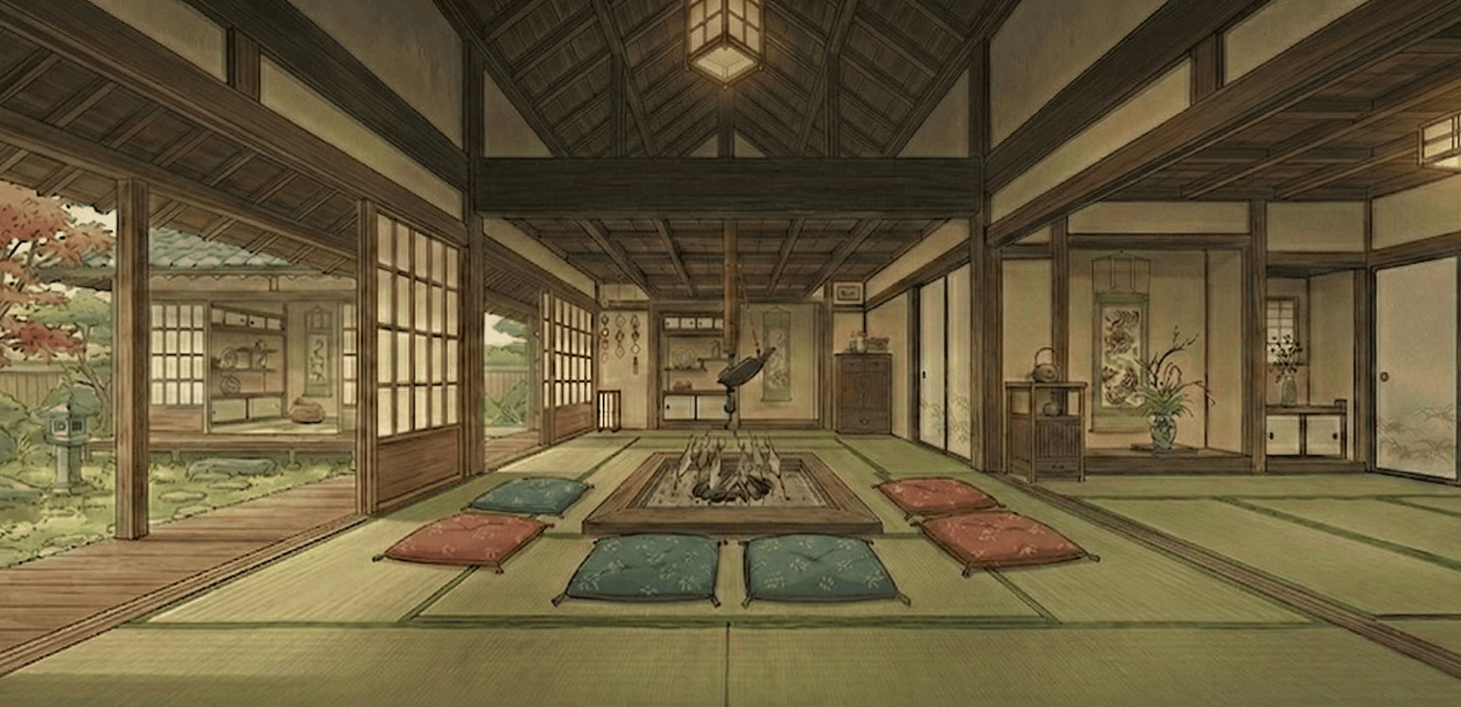
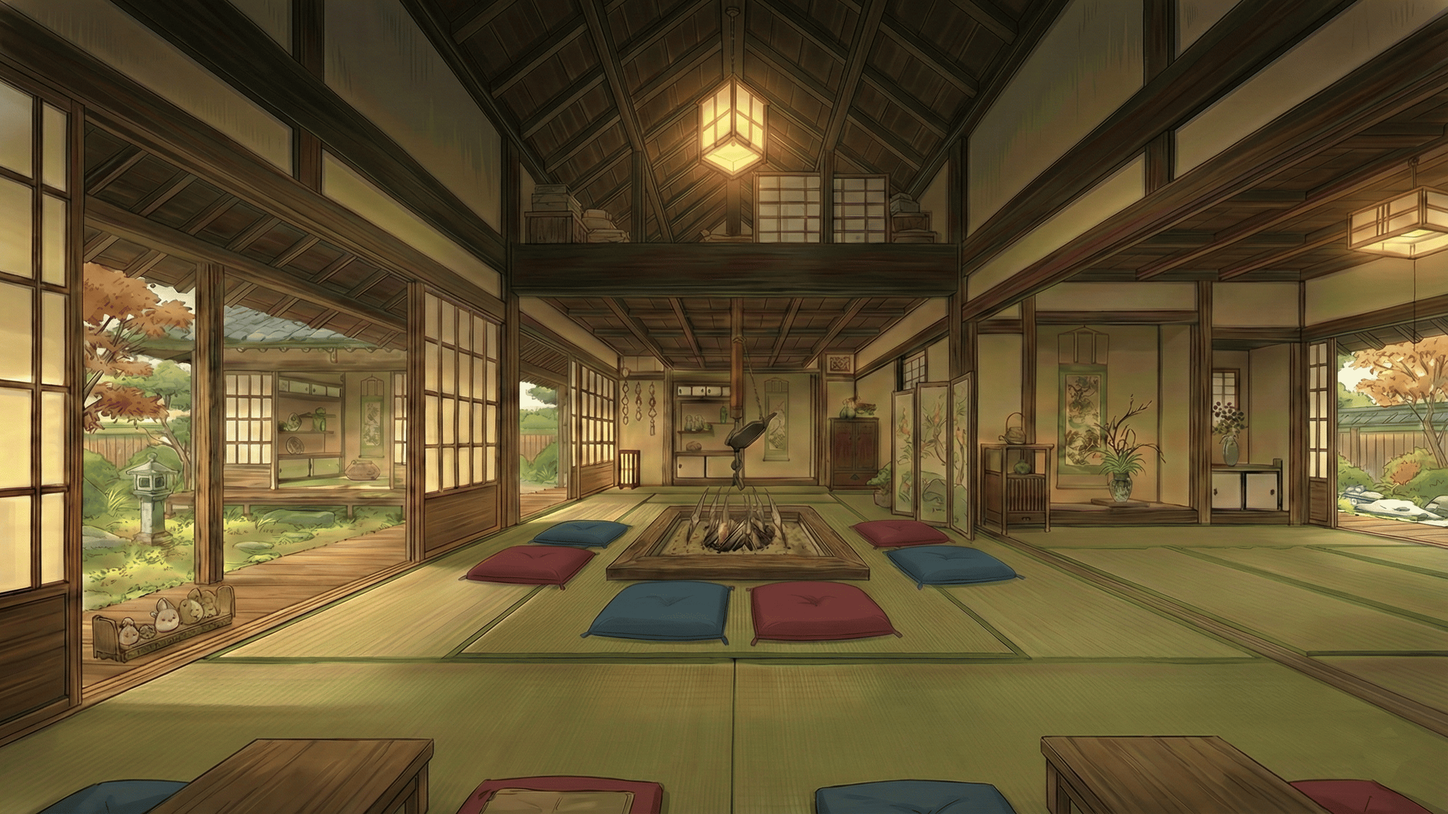
マッチング画面作成

diff --git a/src/views/MatchmakingView.vue b/src/views/MatchmakingView.vue
@@ -1,0 +1,121 @@
+<template>
+  <div class="matchmaking-container">
+    <router-link to="/" class="back-to-title-btn">
+      {{ $t('shrineView.backToTitle') }}
+    </router-link>
+    
+    <div class="matchmaking-content">
+      <h1 class="status-text">{{ $t('matchmaking.status.searching') }}</h1>
+      <!-- The v-for is now on the player-slot itself -->
+      <div
+        v-for="player in waitingPlayers"
+        :key="player.id"
+        class="player-slot"
+        :style="getPlayerStyle(player)"
+      >
+        <img :src="player.avatarUrl" alt="Player Avatar" class="player-avatar" />
+      </div>
+    </div>
+  </div>
+</template>
+
+<script setup>
+import { ref } from 'vue';
+import { useI18n } from 'vue-i18n';
+
+const { t } = useI18n();
+
+// ダミーデータにtop, left, sizeプロパティを追加
+const waitingPlayers = ref([
+  { id: 1, avatarUrl: '/assets/images/info/cat_icon_1.png', top: '85%', left: '25%', size: '70px' },
+  { id: 2, avatarUrl: '/assets/images/info/cat_icon_2.png', top: '85%', left: '70%', size: '70px' },
+  { id: 3, avatarUrl: '/assets/images/info/cat_icon_3.png', top: '75%', left: '-10%', size: '70px' },
+  { id: 4, avatarUrl: '/assets/images/info/hito_icon_1.png', top: '75%', left: '100%', size: '70px' },
+]);
+
+// プレイヤー毎のスタイルを動的に生成する関数
+const getPlayerStyle = (player) => ({
+  position: 'absolute',
+  top: player.top,
+  left: player.left,
+  width: player.size,
+  height: player.size,
+});
+
+</script>
+
+<style scoped>
+.matchmaking-container {
+  width: 100vw;
+  height: 100vh;
+  background-image: url('/assets/images/back/matching.png');
+  background-size: cover;
+  background-repeat: no-repeat;
+  background-position: center;
+  position: relative;
+  overflow: hidden;
+  display: flex;
+  justify-content: center;
+  align-items: center;
+  font-family: 'Yuji Syuku', serif;
+}
+
+.back-to-title-btn {
+  position: absolute;
+  top: 20px;
+  right: 20px;
+  z-index: 20; /* コンテンツより手前に表示 */
+  
+  background-color: rgba(0, 0, 0, 0.5);
+  color: white;
+  padding: 8px 15px;
+  border-radius: 5px;
+  text-decoration: none;
+  font-family: 'Yuji Syuku', serif;
+  transition: background-color 0.3s;
+}
+
+.back-to-title-btn:hover {
+  background-color: rgba(0, 0, 0, 0.7);
+}
+
+.matchmaking-content {
+  /* position: relative を追加して、中の絶対配置の基準点にする */
+  position: relative;
+  width: 80vw;
+  height: 80vh;
+  max-width: 400px;
+  max-height: 600px;
+  
+  padding: 20px;
+  border-radius: 10px;
+}
+
+.status-text {
+  position: absolute;
+  top: 20px;
+  left: 50%;
+  transform: translateX(-50%);
+  color: white;
+  font-size: 1.5em;
+  text-shadow: 2px 2px 4px rgba(0, 0, 0, 0.7);
+  width: 100%;
+  text-align: center;
+}
+
+/* .players-container は不要になったので削除 */
+
+.player-slot {
+  /* スタイルはscriptで動的に設定されるが、共通のスタイルはここに記述可能 */
+  transition: all 0.3s ease; /* 位置やサイズ変更時にアニメーション */
+}
+
+.player-avatar {
+  width: 100%;
+  height: 100%;
+  border-radius: 50%; /* アイコンを丸くする */
+  border: 1px solid rgb(41, 2, 2);
+  box-shadow: 0 0 15px rgba(255, 255, 255, 0.5);
+  object-fit: cover; /* 画像のアスペクト比を保ちつつ、コンテナにフィットさせる */
+}
+</style>

diff --git a/src/router/index.js b/src/router/index.js
@@ -2,6 +2,7 @@ import { createRouter, createWebHashHistory } from 'vue-router';
 import TitleView from '../views/TitleView.vue';
 import GameView from '../views/GameView.vue';
 import JannekoShrineView from '../views/JannekoShrineView.vue';
+import MatchmakingView from '../views/MatchmakingView.vue';
 import { useAudioStore } from '../stores/audioStore';
 
 const routes = [
@@ -52,6 +53,16 @@ const routes = [
       title: 'ランキング | よんじゃん！',
       description: '最大連勝数のランキングです。',
       bgm: 'GB-JP-A02-2(Menu-Loop105).mp3'
+    },
+  },
+  {
+    path: '/matchmaking',
+    name: 'Matchmaking',
+    component: MatchmakingView,
+    meta: {
+      title: '対戦待機中 | よんじゃん！',
+      description: 'オンライン対戦のマッチングを行っています。',
+      bgm: 'NES-JP-A02-2(Stage1-Loop110).mp3'
     },
   },
 ];
